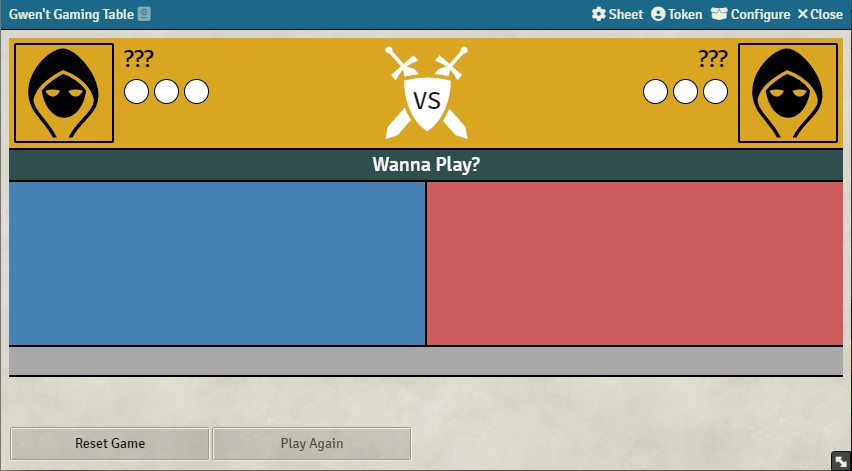
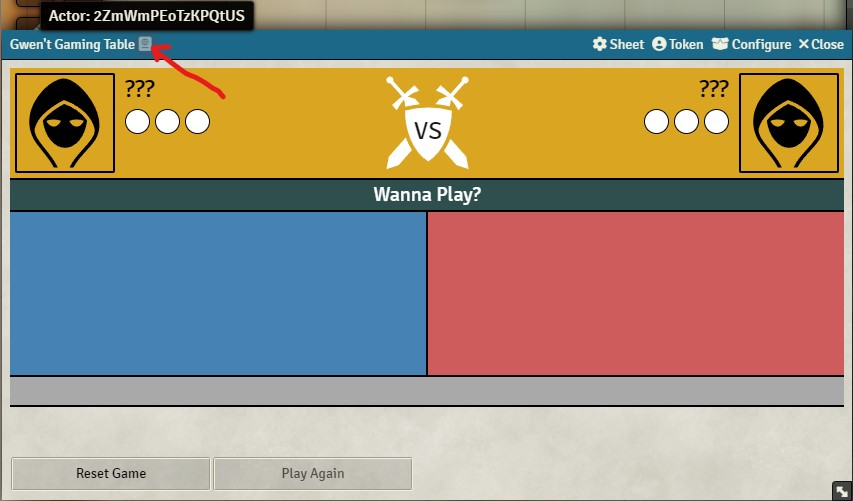
added screenshots to README

diff --git a/README.md b/README.md
@@ -13,6 +13,7 @@ Even though it's originating from the Witcher franchise, it is **system agnostic
   - [1.2. Start a Game](#12-start-a-game)
 - [2. Installation](#2-installation)
   - [2.1. Method 1](#21-method-1)
+  - [2.2. Method 2](#22-method-2)
 - [3. Initial setup](#3-initial-setup)
   - [3.1. Create Game Board](#31-create-game-board)
     - [3.1.1. Create Board Actor](#311-create-board-actor)
@@ -43,7 +44,7 @@ Once, you finished the initial setup, (at least one of) your players should have
 
 **The game will automatically start, once two players joined the game board.**
 
-<!-- Show image of board -->
+![Gwen't - The Dice Game](.github/readme/gwent-just-startet.jpg)
 
 **Play again:**
 
@@ -54,13 +55,13 @@ As long as there are two player's joined, **only the GM can click on "Play Again
 **Only the GM** can see and **click on "Reset Game"**, to remove all joined player's and deck's from the game board, so that other player's can join.
 
 # 2. Installation
-<!-- ## Method 1
+## 2.1. Method 1
 1. On Foundry VTT's **Configuration and Setup** screen, go to **Add-on Modules**
 2. Click **Install Module**
-3. Search for **Token Action HUD TheWitcherTRPG** 
-4. Click **Install** next to the module listing -->
+3. Search for **Gwen't - The Dice Game** 
+4. Click **Install** next to the module listing
 
-## 2.1. Method 1
+## 2.2. Method 2
 1. On Foundry VTT's **Configuration and Setup** screen, go to **Add-on Modules**
 2. Click **Install Module**
 3. In the Manifest URL field, paste: `https://github.com/ortegamarcel/fvtt-gwent/releases/latest/download/module.json`
@@ -78,18 +79,18 @@ Before you can play *Gwen't - The Dice Game*, you need to create a game board. S
 ### 3.1.1. Create Board Actor
 Create an actor as usual. The type doesn't matter. But I recomment to give it a meaningful name, like "Gwen't Gaming Table".
 
-<!-- Show image of witcher actor -->
+![Gwen't - The Dice Game](.github/readme/actor.jpg)
 
 Now click on "Sheet" to open the *Sheet Configuration*-dialog. Select "gwent.BoardSheet" for "This Sheet" and click on "Save Sheet Configuration". Now it should look like this:
 
-<!-- Show image of game board -->
+![Gwen't - The Dice Game](.github/readme/gwent-empty.jpg)
 
 Click on the top left icon behind the actor name to copy its ID to the clipboard. This is important for the next step.
 
 ### 3.1.2. Configure Board Settings
 Go to "Game Settings" -> "Configure Settings" -> "Gwen't". 
 
-<!-- Add settings screenshots with numbers -->
+![Gwen't - The Dice Game](.github/readme/settings.jpg)
 
 1. **Paste the ID of the game board under "Board ID"**
 
@@ -112,17 +113,17 @@ With "deck" I mean a collection of dice, representing a usual deck like used in 
 ### 3.2.1. Create Deck Item
 I am using the Witcher TRPG system, but it will work similar for any system as well.
 
-**First** you **create an item for your players, like you do as usual.** Select a item type so that the deck will be shown in a meaningful place in the players inventory. For me it will be under *Equipment* -> *General*.
+**First** you **create an item for your players, like you do as usual.** Select a item type so that the deck will be shown in a meaningful place in the players inventory. For me, to show it under *Equipment* -> *General*, I need to select "Valuable". This might be different for your system.
 
-<!-- Show Image of create item box, where to select the type -->
+![Gwen't - The Dice Game](.github/readme/create-new-item.jpg)
 
-I recommend to give it a meaningful name, i.e. "John's Gwen't Deck" and select a nice image.
+I recommend to give it a meaningful name, i.e. "Crehwill's Deck" and select a nice image.
 
-<!-- Show the item, before the sheet type is changed -->
+![Gwen't - The Dice Game](.github/readme/item.jpg)
 
-**Click on "Sheet"** to open the *Sheet Configuration*-Dialog. **Select "gwent.GwentItemSheet" for "This Sheet"**.
+**Click on "Sheet"** to open the *Sheet Configuration*-Dialog. **Select "gwent.GwentItemSheet" for "This Sheet"**. This is how a item looks in the Witcher TRPG system.
 
-<!-- Show deck item sheet -->
+![Gwen't - The Dice Game](.github/readme/gwent-deck.jpg)
 
 Now you have successfully created a gwent deck, that will behave like all your other items, but can be used to play a game. You can enter which and how many dice will be inside the deck. You need at least 10 dice to be able to play with it.
 
